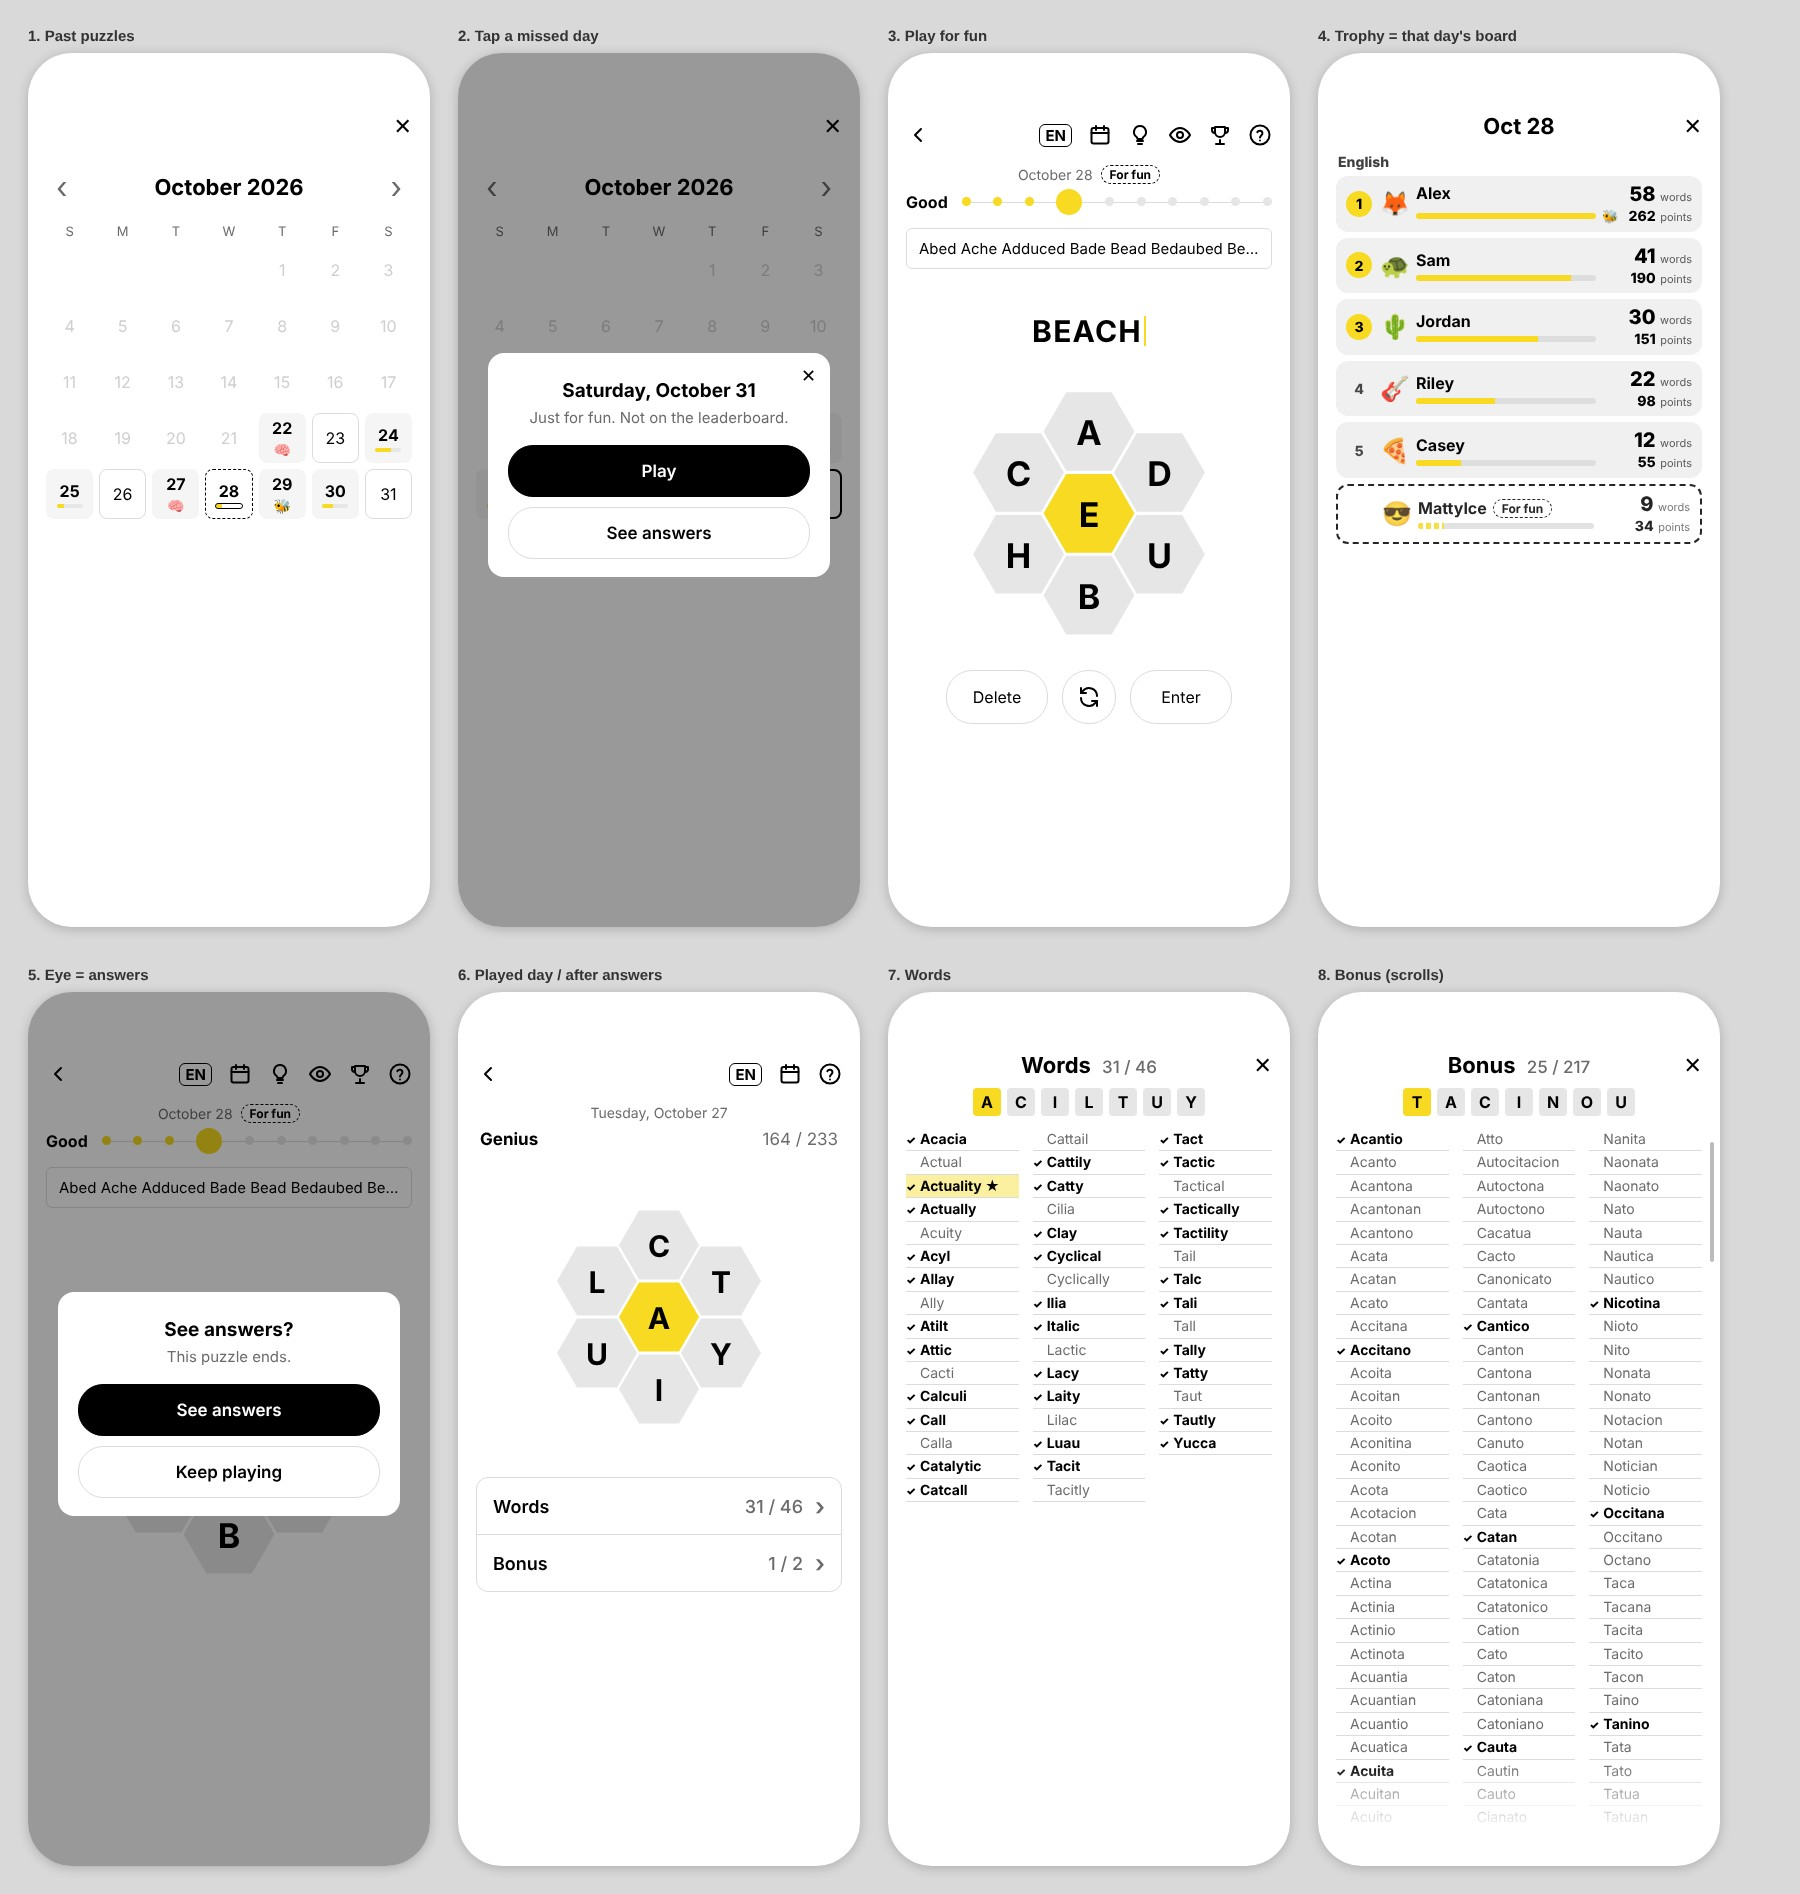
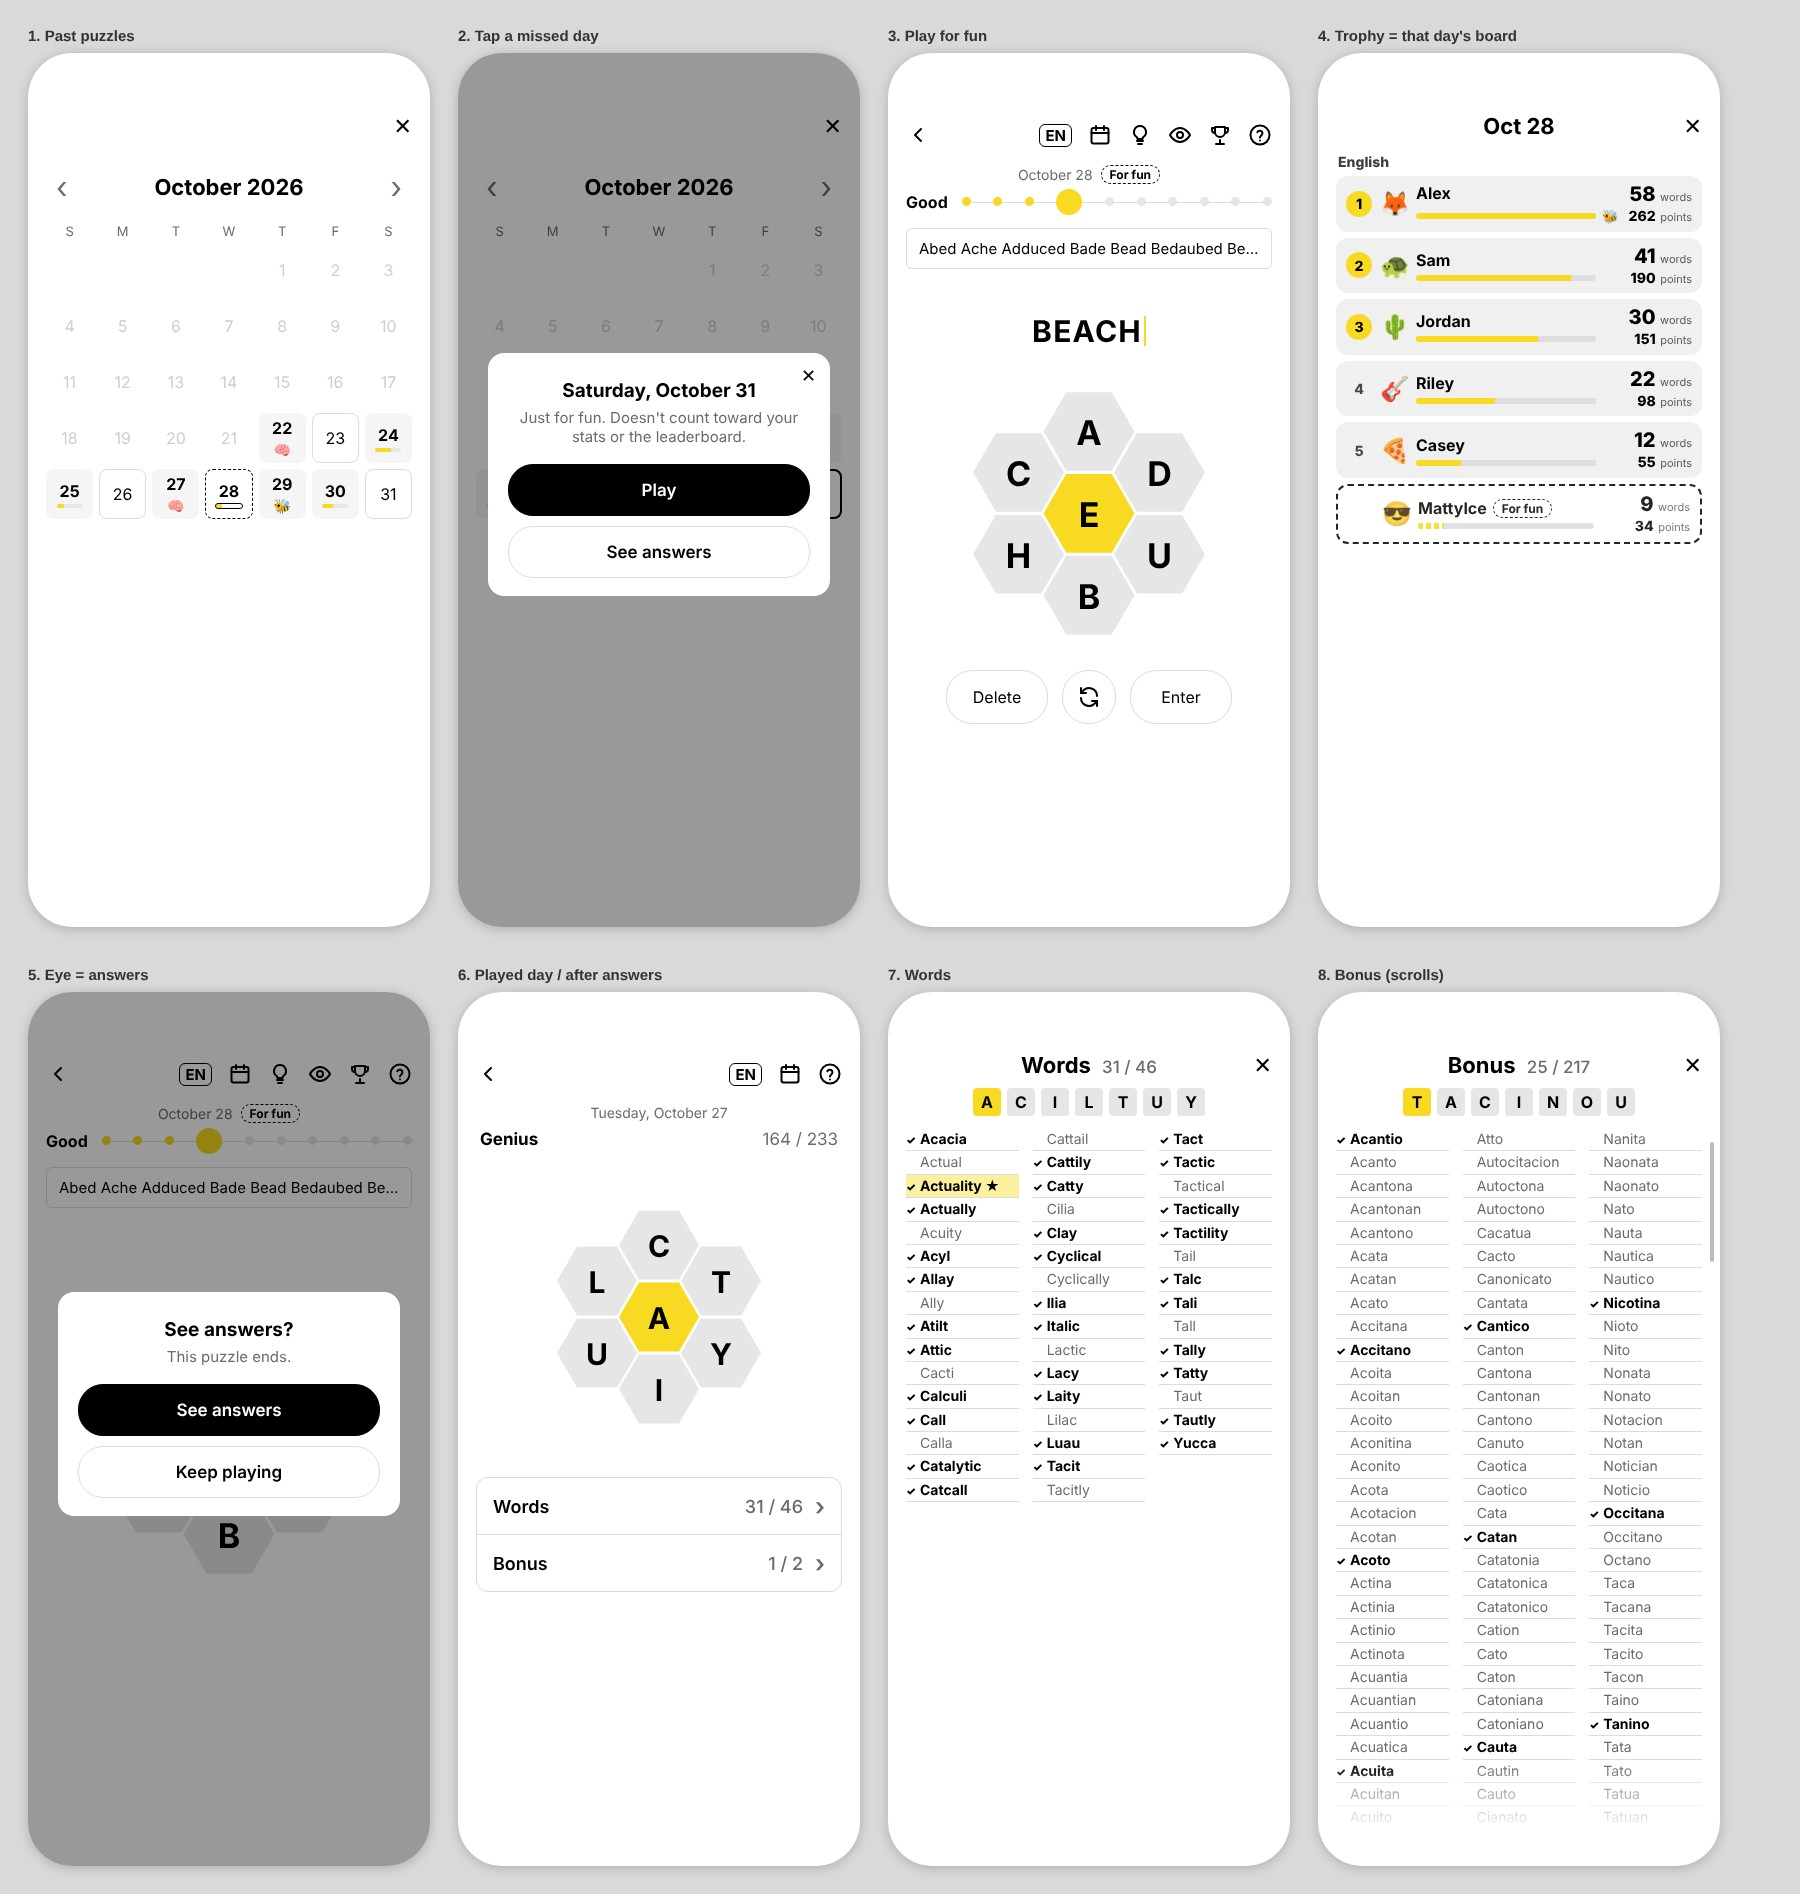
Spelling Bee past days mockup: popup wording
Claude-Session: https://claude.ai/code/session_01BGm65dBnTBqfsPNBeBNXjq

Changed region(s): [[0.28, 0.2181, 0.4667, 0.3427]]

diff --git a/docs/mockups/spelling-bee-past-days.html b/docs/mockups/spelling-bee-past-days.html
@@ -48,7 +48,7 @@ h2{margin:0 0 10px;font-size:22px;text-align:center}h2 .n{color:var(--mut);font-
 .cr{width:16px;font-size:13px}.num{min-width:66px;display:flex;flex-direction:column;align-items:flex-end;gap:2px;line-height:1.1}
 .num b{font-size:20px;font-weight:800}.num .pts b{font-size:14px}.num small{font-size:11px;opacity:.65}
 </style></head><body><div class="wrap">
-<div class="col"><div class="cap">1. Past puzzles</div><div class="phone "><div class="sheet"><div class="x">✕</div><div class="calh"><span class="nav">‹</span><h2>October 2026</h2><span class="nav">›</span></div><div class="cal"><span class="wk">S</span><span class="wk">M</span><span class="wk">T</span><span class="wk">W</span><span class="wk">T</span><span class="wk">F</span><span class="wk">S</span><span></span><span></span><span></span><span></span><span class="day off">1</span><span class="day off">2</span><span class="day off">3</span><span class="day off">4</span><span class="day off">5</span><span class="day off">6</span><span class="day off">7</span><span class="day off">8</span><span class="day off">9</span><span class="day off">10</span><span class="day off">11</span><span class="day off">12</span><span class="day off">13</span><span class="day off">14</span><span class="day off">15</span><span class="day off">16</span><span class="day off">17</span><span class="day off">18</span><span class="day off">19</span><span class="day off">20</span><span class="day off">21</span><span class="day on">22<i class="mk">🧠</i></span><span class="day miss">23</span><span class="day on">24<i class="bar"><b style="width:60%"></b></i></span><span class="day on">25<i class="bar"><b style="width:30%"></b></i></span><span class="day miss">26</span><span class="day on">27<i class="mk">🧠</i></span><span class="day fun">28<i class="bar hollow"><b style="width:25%"></b></i></span><span class="day on">29<i class="mk">🐝</i></span><span class="day on">30<i class="bar"><b style="width:40%"></b></i></span><span class="day miss">31</span></div></div></div></div><div class="col"><div class="cap">2. Tap a missed day</div><div class="phone "><div class="sheet"><div class="x">✕</div><div class="calh"><span class="nav">‹</span><h2>October 2026</h2><span class="nav">›</span></div><div class="cal"><span class="wk">S</span><span class="wk">M</span><span class="wk">T</span><span class="wk">W</span><span class="wk">T</span><span class="wk">F</span><span class="wk">S</span><span></span><span></span><span></span><span></span><span class="day off">1</span><span class="day off">2</span><span class="day off">3</span><span class="day off">4</span><span class="day off">5</span><span class="day off">6</span><span class="day off">7</span><span class="day off">8</span><span class="day off">9</span><span class="day off">10</span><span class="day off">11</span><span class="day off">12</span><span class="day off">13</span><span class="day off">14</span><span class="day off">15</span><span class="day off">16</span><span class="day off">17</span><span class="day off">18</span><span class="day off">19</span><span class="day off">20</span><span class="day off">21</span><span class="day on">22<i class="mk">🧠</i></span><span class="day miss">23</span><span class="day on">24<i class="bar"><b style="width:60%"></b></i></span><span class="day on">25<i class="bar"><b style="width:30%"></b></i></span><span class="day miss">26</span><span class="day on">27<i class="mk">🧠</i></span><span class="day fun">28<i class="bar hollow"><b style="width:25%"></b></i></span><span class="day on">29<i class="mk">🐝</i></span><span class="day on">30<i class="bar"><b style="width:40%"></b></i></span><span class="day miss sel">31</span></div></div><div class="dim"></div><div class="pop"><h3>Saturday, October 31</h3><p>Just for fun. Not on the leaderboard.</p><div class="btn pri">Play</div><div class="btn">See answers</div><div class="x px">✕</div></div></div></div><div class="col"><div class="cap">3. Play for fun</div><div class="phone "><div class="hud"><svg class="" viewBox="0 0 24 24" width="24" height="24" fill="none" stroke="currentColor" stroke-width="2" stroke-linecap="round" stroke-linejoin="round"><path d="M15 6l-6 6 6 6"/></svg><span class="sp"></span><span class="lang">EN</span><svg class="" viewBox="0 0 24 24" width="24" height="24" fill="none" stroke="currentColor" stroke-width="2" stroke-linecap="round" stroke-linejoin="round"><rect x="3.5" y="5" width="17" height="15.5" rx="2"/><path d="M3.5 10h17M8 3v4M16 3v4"/></svg><svg class="" viewBox="0 0 24 24" width="24" height="24" fill="none" stroke="currentColor" stroke-width="2" stroke-linecap="round" stroke-linejoin="round"><path d="M9 18h6M10 21h4"/><path d="M12 3a6 6 0 0 0-3.6 10.8c.6.5 1 1.2 1.1 2.2h5c.1-1 .5-1.7 1.1-2.2A6 6 0 0 0 12 3z"/></svg><svg class="" viewBox="0 0 24 24" width="24" height="24" fill="none" stroke="currentColor" stroke-width="2" stroke-linecap="round" stroke-linejoin="round"><path d="M2 12s3.6-7 10-7 10 7 10 7-3.6 7-10 7S2 12 2 12z"/><circle cx="12" cy="12" r="3"/></svg><svg class="" viewBox="0 0 24 24" width="24" height="24" fill="none" stroke="currentColor" stroke-width="2" stroke-linecap="round" stroke-linejoin="round"><path d="M8 21h8M12 17v4"/><path d="M7 4h10v5a5 5 0 0 1-10 0z"/><path d="M17 5h3v2a3 3 0 0 1-3 3M7 5H4v2a3 3 0 0 0 3 3"/></svg><svg class="" viewBox="0 0 24 24" width="24" height="24" fill="none" stroke="currentColor" stroke-width="2" stroke-linecap="round" stroke-linejoin="round"><circle cx="12" cy="12" r="9.5"/><path d="M9.3 9.2a2.7 2.7 0 0 1 5.1 1.3c0 1.8-2.4 2.1-2.4 4"/><path d="M12 17.6v.01"/></svg></div>
+<div class="col"><div class="cap">1. Past puzzles</div><div class="phone "><div class="sheet"><div class="x">✕</div><div class="calh"><span class="nav">‹</span><h2>October 2026</h2><span class="nav">›</span></div><div class="cal"><span class="wk">S</span><span class="wk">M</span><span class="wk">T</span><span class="wk">W</span><span class="wk">T</span><span class="wk">F</span><span class="wk">S</span><span></span><span></span><span></span><span></span><span class="day off">1</span><span class="day off">2</span><span class="day off">3</span><span class="day off">4</span><span class="day off">5</span><span class="day off">6</span><span class="day off">7</span><span class="day off">8</span><span class="day off">9</span><span class="day off">10</span><span class="day off">11</span><span class="day off">12</span><span class="day off">13</span><span class="day off">14</span><span class="day off">15</span><span class="day off">16</span><span class="day off">17</span><span class="day off">18</span><span class="day off">19</span><span class="day off">20</span><span class="day off">21</span><span class="day on">22<i class="mk">🧠</i></span><span class="day miss">23</span><span class="day on">24<i class="bar"><b style="width:60%"></b></i></span><span class="day on">25<i class="bar"><b style="width:30%"></b></i></span><span class="day miss">26</span><span class="day on">27<i class="mk">🧠</i></span><span class="day fun">28<i class="bar hollow"><b style="width:25%"></b></i></span><span class="day on">29<i class="mk">🐝</i></span><span class="day on">30<i class="bar"><b style="width:40%"></b></i></span><span class="day miss">31</span></div></div></div></div><div class="col"><div class="cap">2. Tap a missed day</div><div class="phone "><div class="sheet"><div class="x">✕</div><div class="calh"><span class="nav">‹</span><h2>October 2026</h2><span class="nav">›</span></div><div class="cal"><span class="wk">S</span><span class="wk">M</span><span class="wk">T</span><span class="wk">W</span><span class="wk">T</span><span class="wk">F</span><span class="wk">S</span><span></span><span></span><span></span><span></span><span class="day off">1</span><span class="day off">2</span><span class="day off">3</span><span class="day off">4</span><span class="day off">5</span><span class="day off">6</span><span class="day off">7</span><span class="day off">8</span><span class="day off">9</span><span class="day off">10</span><span class="day off">11</span><span class="day off">12</span><span class="day off">13</span><span class="day off">14</span><span class="day off">15</span><span class="day off">16</span><span class="day off">17</span><span class="day off">18</span><span class="day off">19</span><span class="day off">20</span><span class="day off">21</span><span class="day on">22<i class="mk">🧠</i></span><span class="day miss">23</span><span class="day on">24<i class="bar"><b style="width:60%"></b></i></span><span class="day on">25<i class="bar"><b style="width:30%"></b></i></span><span class="day miss">26</span><span class="day on">27<i class="mk">🧠</i></span><span class="day fun">28<i class="bar hollow"><b style="width:25%"></b></i></span><span class="day on">29<i class="mk">🐝</i></span><span class="day on">30<i class="bar"><b style="width:40%"></b></i></span><span class="day miss sel">31</span></div></div><div class="dim"></div><div class="pop"><h3>Saturday, October 31</h3><p>Just for fun. Doesn't count toward your stats or the leaderboard.</p><div class="btn pri">Play</div><div class="btn">See answers</div><div class="x px">✕</div></div></div></div><div class="col"><div class="cap">3. Play for fun</div><div class="phone "><div class="hud"><svg class="" viewBox="0 0 24 24" width="24" height="24" fill="none" stroke="currentColor" stroke-width="2" stroke-linecap="round" stroke-linejoin="round"><path d="M15 6l-6 6 6 6"/></svg><span class="sp"></span><span class="lang">EN</span><svg class="" viewBox="0 0 24 24" width="24" height="24" fill="none" stroke="currentColor" stroke-width="2" stroke-linecap="round" stroke-linejoin="round"><rect x="3.5" y="5" width="17" height="15.5" rx="2"/><path d="M3.5 10h17M8 3v4M16 3v4"/></svg><svg class="" viewBox="0 0 24 24" width="24" height="24" fill="none" stroke="currentColor" stroke-width="2" stroke-linecap="round" stroke-linejoin="round"><path d="M9 18h6M10 21h4"/><path d="M12 3a6 6 0 0 0-3.6 10.8c.6.5 1 1.2 1.1 2.2h5c.1-1 .5-1.7 1.1-2.2A6 6 0 0 0 12 3z"/></svg><svg class="" viewBox="0 0 24 24" width="24" height="24" fill="none" stroke="currentColor" stroke-width="2" stroke-linecap="round" stroke-linejoin="round"><path d="M2 12s3.6-7 10-7 10 7 10 7-3.6 7-10 7S2 12 2 12z"/><circle cx="12" cy="12" r="3"/></svg><svg class="" viewBox="0 0 24 24" width="24" height="24" fill="none" stroke="currentColor" stroke-width="2" stroke-linecap="round" stroke-linejoin="round"><path d="M8 21h8M12 17v4"/><path d="M7 4h10v5a5 5 0 0 1-10 0z"/><path d="M17 5h3v2a3 3 0 0 1-3 3M7 5H4v2a3 3 0 0 0 3 3"/></svg><svg class="" viewBox="0 0 24 24" width="24" height="24" fill="none" stroke="currentColor" stroke-width="2" stroke-linecap="round" stroke-linejoin="round"><circle cx="12" cy="12" r="9.5"/><path d="M9.3 9.2a2.7 2.7 0 0 1 5.1 1.3c0 1.8-2.4 2.1-2.4 4"/><path d="M12 17.6v.01"/></svg></div>
 <div class="date">October 28 <span class="fun-tag">For fun</span></div><div class="prog"><b>Good</b><span class="track"><i class="past"></i><i class="past"></i><i class="past"></i><i class="now"></i><i class=""></i><i class=""></i><i class=""></i><i class=""></i><i class=""></i><i class=""></i></span></div>
 <div class="found">Abed  Ache  Adduced  Bade  Bead  Bedaubed  Beheaded  Cached  Cube</div>
 <div class="input">BEACH<span class="cur"></span></div>
